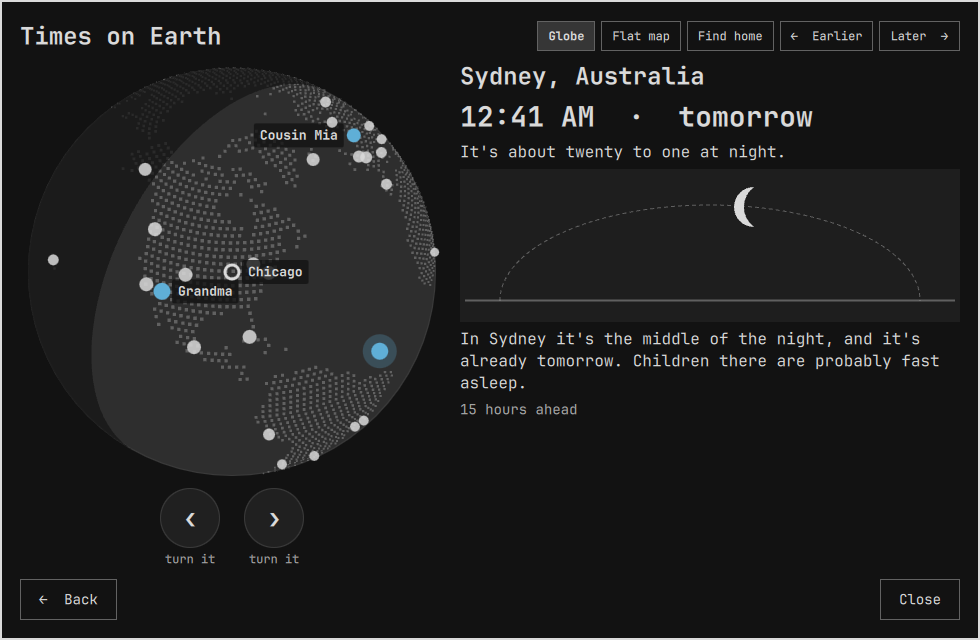
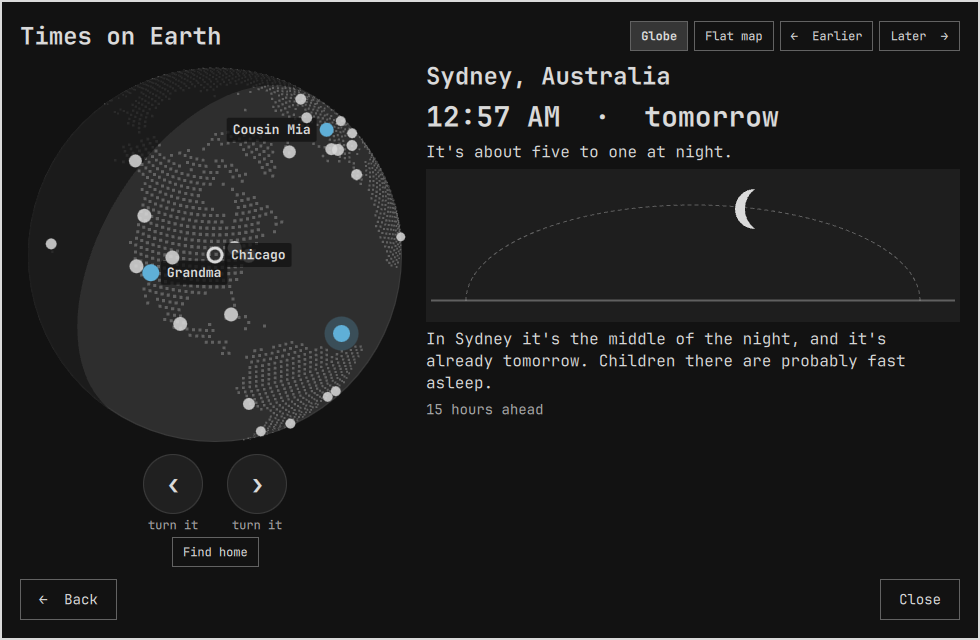
Believe the write, and stop the screen jumping about
Adding and removing people looked broken because the plugin asked the shell
what it had just told the shell. A saved entry goes out to the shell, into
shell.json and back before the shell's own copy of the config says it, and
until it did, the list still showed the person who had gone. Worse, the next
save was built on that stale entry, so a second edit undid the first: add two
people and one of them vanishes, remove two and one comes back. That is the
delay, and the reason wandering off to another screen and back "fixed" it.

The service now believes what it wrote until the shell agrees with it, and
lets go the moment it does; a write that never comes back is dropped after
five seconds so the screen cannot lie indefinitely. The harness grew a
KIDS_CLOCK_LAG to hold the config back, which reproduces the old behaviour
exactly and passes now.

Earlier and Later sit under the sky in both layouts. They were anchored to the
bottom of the clock block, which on an empty clock stretched to fill the card
and dropped them onto the navigation. The line about it being the only clock
is gone with it.

Times on Earth keeps the same top whichever way you look: the flat map no
longer repeats the sentence and the time from the front page, nor the
paragraph explaining the shading, and Find home has moved down to the globe it
belongs to, so switching views redraws the world and nothing else.

Me loses its second button. An empty field saves home back to the computer's
[…]

diff --git a/Overlay.qml b/Overlay.qml
@@ -228,12 +228,10 @@ Item {
     closeMe()
   }
 
-  function useSystemZone() {
-    persistSettings({ homeCity: "" })
-    closeMe()
-  }
-
   function acceptMe() {
+    // An empty field means home goes back to the computer's own time zone,
+    // which is where it started; there is no separate button for it.
+    if (meDraft.trim() === "") { saveMe(""); return }
     var option = meOptions[meIndex]
     if (option) saveMe(option.key)
   }
@@ -294,7 +292,13 @@ Item {
     var current = clock.config || {}
     for (var k in current) if (k !== "id") entry[k] = current[k]
     for (var v in values) entry[v] = values[v]
-    if (shell && typeof shell.updateEntryInline === "function") return shell.updateEntryInline(pluginId, entry)
+    if (shell && typeof shell.updateEntryInline === "function") {
+      var saved = shell.updateEntryInline(pluginId, entry)
+      // Show it at once rather than waiting for the shell's copy to catch up;
+      // the service drops the entry again as soon as the shell agrees.
+      if (saved && typeof clock.noteSaved === "function") clock.noteSaved(entry)
+      return saved
+    }
     console.warn("kids-clock: the shell cannot save settings here")
     return false
   }
@@ -1347,11 +1351,10 @@ Item {
           Item {
             id: homeArea
             width: parent.width
-            height: clockView.aloneAtHome
-              ? Math.max(homeHeader.height + content.gap + content.homeSkyHeight,
-                         clockView.height - invite.height - sunRow.height
-                           - Style.spacing.md - content.gap)
-              : homeHeader.height + content.gap + content.homeSkyHeight
+            readonly property int skyRoom: clockView.height - homeHeader.height
+              - content.gap - sunRow.height - Style.spacing.md
+            height: homeHeader.height + content.gap
+              + (clockView.aloneAtHome ? homeSky.height : content.homeSkyHeight)
 
             Face {
               id: homeFace
@@ -1366,7 +1369,7 @@ Item {
               // which feeds the header's width which feeds its wrap.
               width: !visible ? 0
                 : (clockView.aloneAtHome
-                  ? Math.min(height, Math.round(homeArea.width * 0.42))
+                  ? Math.min(homeSky.height, Math.round(homeArea.width * 0.42))
                   : content.homeSkyHeight + content.gap + Math.round(Style.font.displayLarge * 1.3))
               minutesOfDay: root.home ? root.home.minutesOfDay : 0
 
@@ -1388,18 +1391,15 @@ Item {
             Sky {
               id: homeSky
               // The sun's path is a dome, so the sky keeps its shape rather
-              // than stretching into whatever height is going spare; alone it
-              // sits centred in the room under the sentence, beside the face.
-              readonly property int room: homeArea.height - homeHeader.height - content.gap
+              // than stretching into whatever height is going spare.
               anchors.left: parent.left
               anchors.right: homeFace.visible ? homeFace.left : parent.right
               anchors.rightMargin: homeFace.visible ? content.gap * 2 : 0
-              anchors.top: clockView.aloneAtHome ? undefined : homeHeader.bottom
-              anchors.topMargin: clockView.aloneAtHome ? 0 : content.gap
-              y: clockView.aloneAtHome
-                ? homeHeader.height + content.gap + Math.round((room - height) / 2) : 0
+              anchors.top: homeHeader.bottom
+              anchors.topMargin: content.gap
               height: clockView.aloneAtHome
-                ? Math.max(content.homeSkyHeight, Math.min(room, Math.round(width * 0.52)))
+                ? Math.max(content.homeSkyHeight,
+                    Math.min(homeArea.skyRoom, Math.round(width * 0.52)))
                 : content.homeSkyHeight
               isDay: root.home ? root.home.isDay : true
               t: root.home ? root.home.t : 0.5
@@ -1414,24 +1414,6 @@ Item {
             anchors.top: homeArea.bottom
             anchors.topMargin: Style.spacing.md
             anchors.left: parent.left
-          }
-
-          // What to do about the empty half of the clock, on the clock rather
-          // than in a menu.
-          Text {
-            id: invite
-            visible: clockView.aloneAtHome
-            height: visible ? implicitHeight : 0
-            anchors.bottom: parent.bottom
-            width: parent.width
-            textFormat: Text.PlainText
-            text: root.hasFace
-              ? "Only your clock so far. Play sets the hands, and People adds someone whose day appears beside yours."
-              : "Only your sky so far. People adds someone whose day appears beside yours."
-            color: root.quiet
-            font.family: root.fontFamily
-            font.pixelSize: Style.font.title
-            wrapMode: Text.WordWrap
           }
 
           // One card per person, side by side.
@@ -1617,12 +1599,6 @@ Item {
             SunRow {}
             ActionButton {
               compact: true
-              visible: root.showGlobe
-              text: "Find home"
-              onClicked: root.centreGlobeOnHome()
-            }
-            ActionButton {
-              compact: true
               visible: root.hasMap
               primary: root.earthMode === "map"
               text: "Flat map"
@@ -1648,37 +1624,16 @@ Item {
           anchors.bottom: parent.bottom
           anchors.bottomMargin: toolbar.height + content.gap
 
-          HomeHeader {
-            id: mapHeader
-            anchors.left: parent.left
-            anchors.right: parent.right
-            anchors.top: parent.top
-          }
-
           WorldMap {
             id: worldMap
-            anchors.top: mapHeader.bottom
-            anchors.topMargin: content.gap
+            anchors.top: parent.top
             anchors.horizontalCenter: parent.horizontalCenter
-            width: Math.min(parent.width, Math.floor((parent.height - mapHeader.height - mapCaption.height - content.gap * 2) * 2))
+            width: Math.min(parent.width, Math.floor(parent.height * 2))
             height: Math.round(width / 2)
             land: root.land
             night: root.night
             sun: root.sun
             markers: root.markers
-          }
-
-          Text {
-            id: mapCaption
-            anchors.top: worldMap.bottom
-            anchors.topMargin: content.gap
-            width: parent.width
-            textFormat: Text.PlainText
-            text: "The shaded part of the world is having its night. The sun is straight overhead at the little sun, and under the moon it is the middle of the night. Earlier and later move them."
-            color: root.quiet
-            font.family: root.fontFamily
-            font.pixelSize: Style.font.body
-            wrapMode: Text.WordWrap
           }
         }
 
@@ -1736,7 +1691,7 @@ Item {
               spacing: Style.spacing.lg
 
               Rectangle {
-              width: Math.min(parent.width - meGo.width - meZone.width - Style.spacing.lg * 2, Style.space(560))
+              width: Math.min(parent.width - meGo.width - Style.spacing.lg, Style.space(560))
               height: Style.space(56)
               radius: root.cornerRadius
               color: Util.alpha(root.foreground, 0.06)
@@ -1788,23 +1743,16 @@ Item {
                 id: meGo
                 anchors.verticalCenter: parent.verticalCenter
                 primary: true
-                enabled: root.meOptions.length > 0
+                enabled: root.meOptions.length > 0 || root.meDraft.trim() === ""
                 text: "Save"
                 onClicked: root.acceptMe()
-              }
-              ActionButton {
-                id: meZone
-                anchors.verticalCenter: parent.verticalCenter
-                visible: !root.meFromZone
-                text: "Use the computer's zone"
-                onClicked: root.useSystemZone()
               }
             }
 
             Text {
               width: parent.width
               textFormat: Text.PlainText
-              text: "Type anything: a town, a street, whatever we call the house. The clock here always follows the computer's own time zone; picking a place from the list also puts home on the map and the globe, and gives its sky the right sunrise."
+              text: "Type anything: a town, a street, whatever we call the house. The clock here always follows the computer's own time zone, whatever this says; picking a place from the list also puts home on the map and the globe, and gives its sky the right sunrise. Leave it empty to go back to the computer's own place."
               color: root.quiet
               font.family: root.fontFamily
               font.pixelSize: Style.font.body
@@ -2217,7 +2165,12 @@ Item {
           anchors.topMargin: content.gap
           anchors.bottom: parent.bottom
           anchors.bottomMargin: toolbar.height + content.gap
-          readonly property int globeSize: Math.max(Style.space(200), Math.min(height - spinRow.height - content.gap, Math.round(width * 0.54)))
+          // The globe leaves room for what sits under it: the two turn
+          // buttons and Find home, which belongs to the globe rather than to
+          // the header the flat map shares.
+          readonly property int globeSize: Math.max(Style.space(200),
+            Math.min(height - spinRow.height - findHome.height - Style.spacing.sm - content.gap,
+              Math.round(width * 0.54)))
 
           Globe {
             id: theGlobe
@@ -2249,6 +2202,16 @@ Item {
             spacing: Style.spacing.xxl * 2
             TurnButton { glyph: "‹"; caption: "turn it"; delta: -40; spins: true }
             TurnButton { glyph: "›"; caption: "turn it"; delta: 40; spins: true }
+          }
+
+          ActionButton {
+            id: findHome
+            anchors.horizontalCenter: spinRow.horizontalCenter
+            anchors.top: spinRow.bottom
+            anchors.topMargin: Style.spacing.sm
+            compact: true
+            text: "Find home"
+            onClicked: root.centreGlobeOnHome()
           }
 
           Column {

diff --git a/Service.qml b/Service.qml
@@ -27,8 +27,42 @@ Item {
   // 4.0.3 injects a capability-scoped API whose `barConfig` is the bar half of
   // that same config, kept current as shell.json changes. Either shape finds
   // the entry.
-  readonly property var config: !shell ? ({})
+  readonly property var liveConfig: !shell ? ({})
     : Model.settingsFor(shell.shellConfig ? shell.shellConfig : shell.barConfig, pluginId)
+
+  // What was last handed to the shell to save. A saved entry has to go out to
+  // the shell, into shell.json and back before the shell's copy says it, and
+  // until it does, every screen would still be showing the person who has
+  // just been removed — and worse, the next save would be built on top of
+  // that stale entry and put them back. So the plugin believes its own write
+  // until the shell agrees with it.
+  property var pendingEntry: null
+
+  function noteSaved(entry) {
+    pendingEntry = entry && typeof entry === "object" ? entry : null
+    if (pendingEntry) pendingWatchdog.restart()
+  }
+
+  onLiveConfigChanged: if (pendingEntry && Model.settingsLanded(liveConfig, pendingEntry)) {
+    pendingEntry = null
+    pendingWatchdog.stop()
+  }
+
+  // A write that never comes back (the shell refused it, the file is not
+  // writable) must not leave the screens showing something that was never
+  // saved. After a few seconds the plugin goes back to what the shell says.
+  Timer {
+    id: pendingWatchdog
+    interval: 5000
+    repeat: false
+    onTriggered: {
+      if (!root.pendingEntry) return
+      console.warn("kids-clock: a saved setting did not come back from the shell; showing what it says instead")
+      root.pendingEntry = null
+    }
+  }
+
+  readonly property var config: pendingEntry ? pendingEntry : liveConfig
   readonly property string band: String(Model.setting(config, "band", "explorer"))
   readonly property var rules: Model.bandRules(band)
   readonly property string hourFormat: String(Model.setting(config, "hourFormat", "12"))

diff --git a/test/model-test.js b/test/model-test.js
@@ -278,6 +278,25 @@ check("the game view follows the hands and hints the shortest way round", () => 
   assert.ok(Model.gameView(round, target + 720).minutesOfDay < 720, "the face only ever shows a dial time")
 })
 
+check("a saved entry is believed until the shell's own copy says the same", () => {
+  // The shell takes a saved entry out to shell.json and back. Until it comes
+  // back, the plugin shows what it wrote, or the next save is built on top of
+  // a config that has not heard about the last one and undoes it.
+  const saved = { id: "x", band: "navigator", people: "A=Phoenix; B=Tokyo" }
+  const stale = { id: "x", band: "navigator", people: "A=Phoenix" }
+  assert.strictEqual(Model.settingsLanded(stale, saved), false, "not back yet")
+  assert.strictEqual(Model.settingsLanded(saved, saved), true, "back, so let go of it")
+
+  // Removing the last person writes an empty string; a shell that drops the
+  // key entirely still counts as having landed it.
+  assert.strictEqual(Model.settingsLanded({ id: "x", people: "" }, { id: "x", people: "" }), true)
+  assert.strictEqual(Model.settingsLanded({ id: "x" }, { id: "x", people: "" }), true)
+  // Keys the plugin never set are not ours to wait for.
+  assert.strictEqual(Model.settingsLanded({ id: "x", people: "A=Phoenix", band: "explorer" },
+    { id: "x", people: "A=Phoenix" }), true)
+  assert.strictEqual(Model.settingsLanded({ id: "x" }, null), true, "nothing pending")
+})
+
 check("a person is removed by who they are, not by the row they were on", () => {
   let people = "Grandma=Phoenix; Uncle Ken=Tokyo; Nana=Sydney"
   assert.strictEqual(Model.indexOfPerson(people, "Uncle Ken", "Tokyo"), 1)

diff --git a/Model.js b/Model.js
@@ -80,6 +80,20 @@ function settingsFor(config, pluginId) {
   return {}
 }
 
+// Does the shell's own copy of the entry already say everything we asked it
+// to save? Only the keys we set are compared: the shell rebuilds the entry
+// around them, and a key we never mentioned is not ours to wait for.
+function settingsLanded(live, saved) {
+  if (!saved || typeof saved !== "object") return true
+  if (!live || typeof live !== "object") return false
+  for (var key in saved) {
+    if (key === "id") continue
+    if (String(live[key] === undefined ? "" : live[key]) !== String(saved[key] === undefined ? "" : saved[key]))
+      return false
+  }
+  return true
+}
+
 function setting(settings, key, fallback) {
   var value = settings ? settings[key] : undefined
   return value === undefined || value === null || value === "" ? fallback : value
@@ -1043,6 +1057,7 @@ if (typeof module !== "undefined") {
   module.exports = {
     bandRules: bandRules,
     settingsFor: settingsFor,
+    settingsLanded: settingsLanded,
     dirFromUrl: dirFromUrl,
     setting: setting,
     parseClock: parseClock,

diff --git a/README.md b/README.md
@@ -71,7 +71,9 @@ the sun here too, and the night sweeps round the globe as it goes.
 ### The flat map
 
 On the Navigator band, Flat map lays the world out flat with the
-night side shaded. The shade is the real one for the shown instant, worked
+night side shaded. The top of the screen does not change when the view does:
+the same title, the same switch, the same Earlier and Later. Only the world
+below it is drawn differently. The shade is the real one for the shown instant, worked
 out from the sun's declination and Greenwich solar noon, so it leans towards
 one pole in December and the other in June, and it sweeps west as Earlier
 and Later move the sun. A sun marks where the sun is straight overhead, a moon
@@ -145,14 +147,18 @@ street, "the house on the hill". Whatever is typed is what home is called.
 
 Picking a real place from the list does one thing more — it puts home on the
 map and the globe, and gives the sky the right sunrise for that latitude
-instead of the one that belongs to the system zone. A button hands home back
-to the computer's time zone.
+instead of the one that belongs to the system zone. Saving an empty field
+hands home back to the computer's own place.
 
 ![The People screen asking where Nana lives](preview-people.png)
 
 Everything is saved to the plugin's own entry in `~/.config/omarchy/shell.json`
 through the shell, the same way the built-in panels save their settings, so
-the command line sees the same values.
+the command line sees the same values. A saved entry has to go out to the
+shell and come back before the shell's own copy of the config says it, so the
+clock believes what it just wrote until the shell agrees. Without that, a
+second edit is built on a config that has not heard about the first, and adding
+two people in a row loses one of them.
 
 ## Settings
 
@@ -207,7 +213,7 @@ the field they finish.
 | Earlier, Later | move the sun an hour, under the sky on the clock and at the top of Times on Earth |
 | Back to now | appears once the sun has moved, and puts it back |
 | Globe, Flat map | the two ways of looking at Times on Earth (the flat map is navigator) |
-| Find home | turns the globe back to home |
+| Find home | turns the globe back to home; it sits under the globe, with the buttons that turn it |
 | Set the clock, Read the clock | the two rounds of the game |
 | Start again, Another one | put the hands back where they began, and take a new round |
 | Next, Save | finish the question the field is asking |
